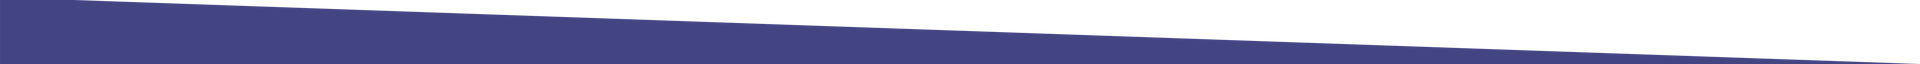
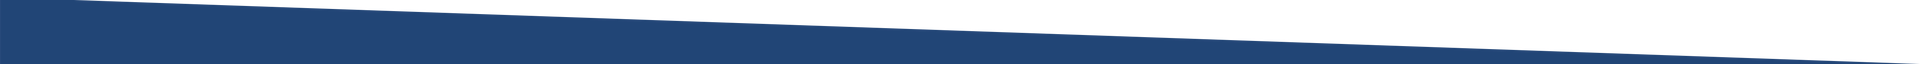
Imagenes Color azul

diff --git a/MusicRoom/src/main/resources/templates/html5/email-template-2.html b/MusicRoom/src/main/resources/templates/html5/email-template-2.html
@@ -327,7 +327,7 @@ a[x-apple-data-detectors=true] {
 						</div>
 					</div>
 					<div
-						style="background-image: url('https://raw.githubusercontent.com/cmvb/MusicRoom/master/MusicRoom/FrontMusicRoom/front-music/src/assets/images/email/bg_geometric.png'); background-position: top center; background-repeat: no-repeat; background-color: #00456a;">
+						style="background-position: top center; background-repeat: no-repeat; background-color: #00456a;">
 						<div class="block-grid" data-body-width-father="650px"
 							rel="col-num-container-box-father"
 							style="Margin: 0 auto; min-width: 320px; max-width: 650px; overflow-wrap: break-word; word-wrap: break-word; word-break: break-word; background-color: transparent;">
@@ -362,7 +362,7 @@ a[x-apple-data-detectors=true] {
 												<!--[if mso]><table width="100%" cellpadding="0" cellspacing="0" border="0"><tr style="line-height:0px"><td style="padding-right: 0px;padding-left: 0px;" align="center"><![endif]-->
 												<img align="center" alt="Image" border="0"
 													class="center autowidth fullwidth"
-													src="https://raw.githubusercontent.com/cmvb/MusicRoom/master/MusicRoom/FrontMusicRoom/front-music/src/assets/images/email/laptop_loop_c.gif"
+													src="https://raw.githubusercontent.com/cmvb/MusicRoom/master/MusicRoom/FrontMusicRoom/front-music/src/assets/images/email/bigImg.jpg"
 													style="outline: none; text-decoration: none; -ms-interpolation-mode: bicubic; clear: both; border: 0; height: auto; float: none; width: 100%; max-width: 650px; display: block;"
 													title="Image" width="650" />
 												<!--[if mso]></td></tr></table><![endif]-->
@@ -515,10 +515,7 @@ a[x-apple-data-detectors=true] {
 													style="font-size: 12px; line-height: 21px; font-family: 'Lato', Tahoma, Verdana, Segoe, sans-serif; color: #555555;">
 													<p
 														style="font-size: 14px; line-height: 28px; text-align: center; margin: 0;">
-														<span style="font-size: 16px;">"Lorem ipsum dolor
-															sit amet, consectetur adipiscing elit. Morbi ac nisi quis
-															urna bibendum vestibulum vitae at turpis. Vivamus egestas
-															risus diam. Phasellus aliquam gravida mauris ut dictum."</span>
+														<span style="font-size: 16px;">Digite el token que se visualiza para realizar la Activación de su Cuenta o siga el enlace.</span>
 													</p>
 												</div>
 											</div>
@@ -621,8 +618,7 @@ a[x-apple-data-detectors=true] {
 													<span
 														style="padding-left: 40px; padding-right: 40px; font-size: 20px; display: inline-block;">
 														<span style="font-size: 16px; line-height: 32px;"><span
-															style="font-size: 20px; line-height: 40px;"><strong>MORE
-																	REVIEWS</strong></span></span>
+															style="font-size: 20px; line-height: 40px;"><strong>${token}</strong></span></span>
 													</span>
 												</div>
 												<!--[if mso]></center></v:textbox></v:roundrect></td></tr></table><![endif]-->
